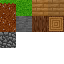
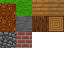
Add brick block

Changed region(s): [[0.25, 0.5, 0.5, 0.75]]

diff --git a/src/world.cpp b/src/world.cpp
@@ -17,6 +17,7 @@ World::World(mve::Window& window, mve::Renderer& renderer, UIRenderer& ui_render
     m_hotbar_blocks.insert({ 3, 4 });
     m_hotbar_blocks.insert({ 4, 5 });
     m_hotbar_blocks.insert({ 5, 6 });
+    m_hotbar_blocks.insert({ 6, 7 });
     for (auto& [pos, block] : m_hotbar_blocks) {
         m_ui_renderer->set_hotbar_block(pos, block);
     }

diff --git a/src/common.hpp b/src/common.hpp
@@ -146,6 +146,8 @@ inline mve::Vector2i block_uv(uint8_t block_type, Direction face)
         }
     case 6:
         return { 0, 2 };
+    case 7:
+        return { 1, 2 };
     default:
         return { 0, 0 };
     }
